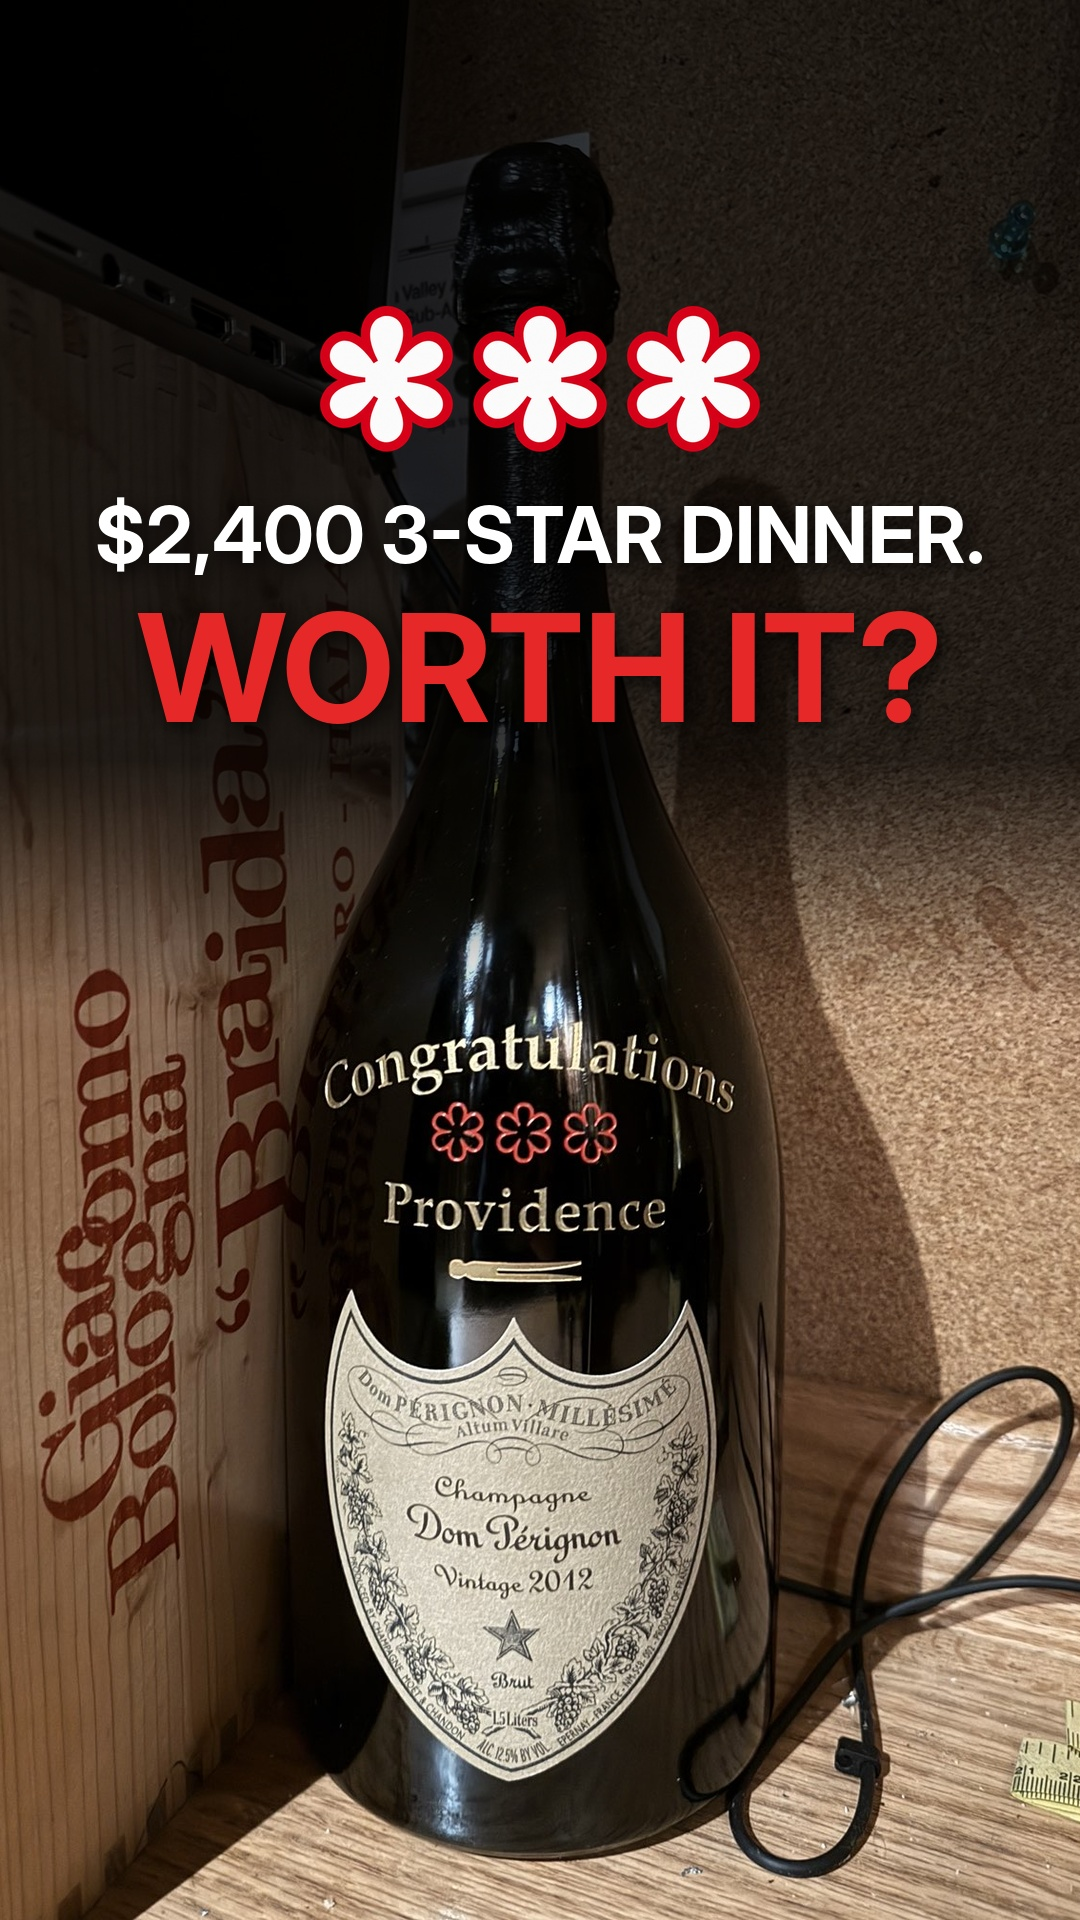
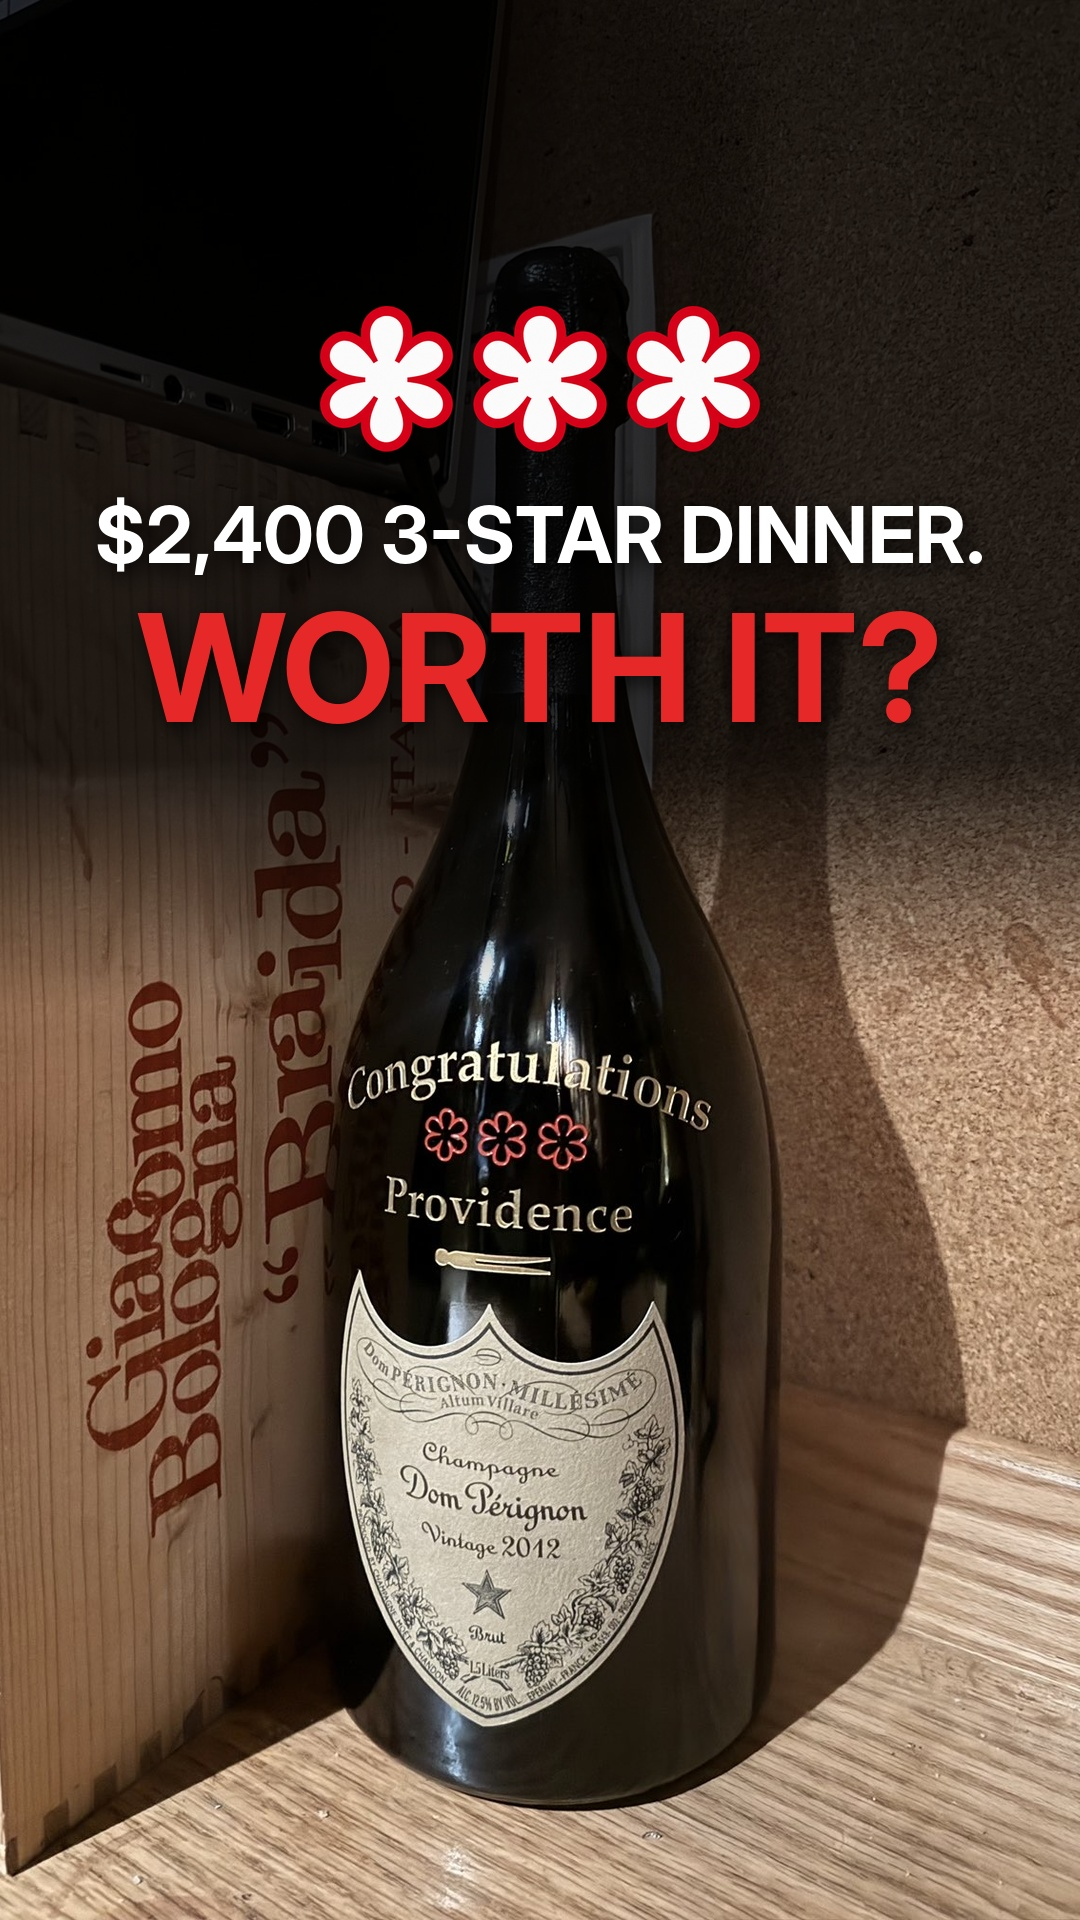
Providence cover from the cleaner photo; crop centre option
Claude-Session: https://claude.ai/code/session_012sBz56Zx9to2cMzoH7bxCs

diff --git a/instagram/covers/make_cover.py b/instagram/covers/make_cover.py
@@ -27,7 +27,8 @@ def main():
     cy = int(sys.argv[5]) if len(sys.argv) > 5 else 760
     kicker = sys.argv[6] if len(sys.argv) > 6 else None
     im = ImageOps.exif_transpose(Image.open(src)).convert("RGB")
-    im = ImageOps.fit(im, (W, H), Image.LANCZOS)
+    cx = float(os.environ.get("CENTER_X", "0.5"))  # 0..1, where to centre the crop
+    im = ImageOps.fit(im, (W, H), Image.LANCZOS, centering=(cx, 0.5))
     shade = os.environ.get("SHADE")  # e.g. SHADE=top: darken behind the text
     if shade == "top":
         g = Image.new("L", (1, H))

diff --git a/instagram/covers.md b/instagram/covers.md
@@ -50,4 +50,6 @@ Influencer Marketing Hub; Meta's own docs not checked):
   `keys-3-filled`.
 - #1 Providence: `covers/01-providence-cover.jpg` from the user's photo of the
   engraved "Congratulations / three stars / Providence" Dom Perignon 2012
-  magnum (2026-11-27). SHADE=top darkens behind the text (busy background).
+  magnum. Remade 2026-11-28 from a second photo with no cable or tape measure
+  (CENTER_X=0.62 SHADE=top). SHADE=top darkens behind the text; CENTER_X moves
+  the 9:16 crop sideways.
